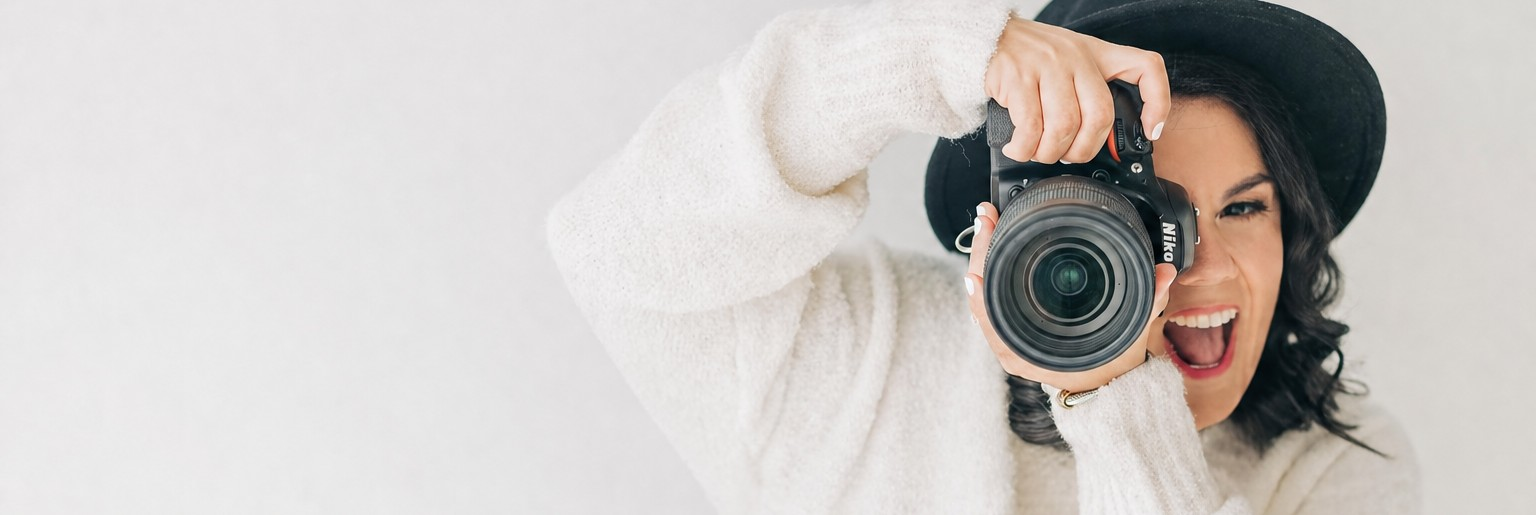
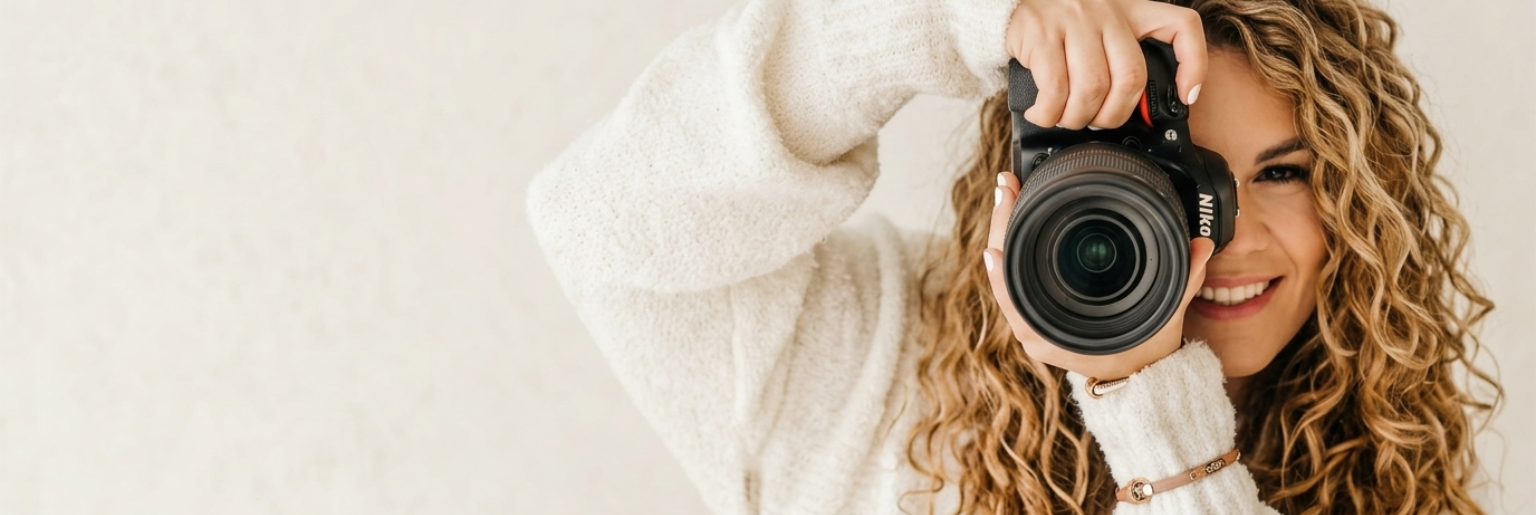
Alterações

diff --git a/campo.html b/campo.html
@@ -35,35 +35,31 @@
                 <div id="carouselExampleAutoplaying" class="carousel slide" data-bs-ride="carousel">
                     <div class="carousel-inner">
                         <div class="carousel-item active">
-                            <img src="imagens/Fotos Campo/2bd59d98c7389266a62df22ed428ca5d.jpg" class="d-block w-100"
+                            <img src="imagens/Fotos Campo/file_000000003720720e8e8a6aa6df68c9bf.png" class="d-block w-100"
                                 alt="campo 1">
                         </div>
                         <div class="carousel-item">
-                            <img src="imagens/Fotos Campo/3471efa9d6f7203ea20ab95968b14813.jpg" class="d-block w-100"
-                                alt="campo 2">
-                        </div>
-                        <div class="carousel-item">
-                            <img src="imagens/Fotos Campo/5167da14bfbef52cf6982c831f339a1c.jpg" class="d-block w-100"
+                            <img src="imagens/Fotos Campo/file_0000000064f4720eaf616bbbf5a0885f.png" class="d-block w-100"
                                 alt="campo 3">
                         </div>
                         <div class="carousel-item">
-                            <img src="imagens/Fotos Campo/c6b20793b2b92577bc85f599b5734120.jpg" class="d-block w-100"
+                            <img src="imagens/Fotos Campo/file_00000000815471f581a38d89bab91dcf.png" class="d-block w-100"
                                 alt="campo 4">
                         </div>
                         <div class="carousel-item">
-                            <img src="imagens/Fotos Campo/d4d68248edb9eeb97ff9e1f8356acce7.jpg" class="d-block w-100"
+                            <img src="imagens/Fotos Campo/file_000000009084720e92041ee5ba6d3e0d.png" class="d-block w-100"
                                 alt="campo 5">
                         </div>
                         <div class="carousel-item">
-                            <img src="imagens/Fotos Campo/de78d8607f535694f38a190bb50339a8.jpg" class="d-block w-100"
+                            <img src="imagens/Fotos Campo/file_00000000aeec720ea4adc13aaf1ccf3a.png" class="d-block w-100"
                                 alt="campo 6">
                         </div>
                         <div class="carousel-item">
-                            <img src="imagens/Fotos Campo/e269ad7b4b0672f68625052e138740c7.jpg" class="d-block w-100"
+                            <img src="imagens/Fotos Campo/file_00000000ca4071f5b4177da5c6f387ed.png" class="d-block w-100"
                                 alt="campo 7">
                         </div>
                         <div class="carousel-item">
-                            <img src="imagens/Fotos Campo/f0a6f8c5d8d6436a2abebd2537f4a1a2.jpg" class="d-block w-100"
+                            <img src="imagens/Fotos Campo/file_00000000e574720e81f77c184e11727a.png" class="d-block w-100"
                                 alt="campo 8">
                         </div>
                     </div>

diff --git a/gestante.html b/gestante.html
@@ -35,35 +35,35 @@
                 <div id="carouselExampleAutoplaying" class="carousel slide" data-bs-ride="carousel">
                     <div class="carousel-inner">
                         <div class="carousel-item active">
-                            <img src="imagens/Fotos Grávida/f7dd2e808f20acca5303b814b88de713.jpg" class="d-block w-100"
+                            <img src="imagens/Fotos Grávida/file_0000000006e8720e85ca3eb236e56c17.png" class="d-block w-100"
                                 alt="gestante 1">
                         </div>
                         <div class="carousel-item">
-                            <img src="imagens/Fotos Grávida/48fad6d0b6326b4de80e8aa12eff299b.jpg" class="d-block w-100"
+                            <img src="imagens/Fotos Grávida/file_0000000007bc71f58e0a84303fea38fd.png" class="d-block w-100"
                                 alt="gestante 2">
                         </div>
                         <div class="carousel-item">
-                            <img src="imagens/Fotos Grávida/5bf4af1169d79b5928d17a2249919cca.jpg" class="d-block w-100"
+                            <img src="imagens/Fotos Grávida/file_00000000654c71f586603e8170c378a8.png" class="d-block w-100"
                                 alt="gestante 3">
                         </div>
                         <div class="carousel-item">
-                            <img src="imagens/Fotos Grávida/b47dda0a18fd6addbdeb57f8651b2d56.jpg" class="d-block w-100"
+                            <img src="imagens/Fotos Grávida/file_000000009354720e9e92cc266bd8fe6d.png" class="d-block w-100"
                                 alt="gestante 4">
                         </div>
                         <div class="carousel-item">
-                            <img src="imagens/Fotos Grávida/b73ed9cd660fbe87f3136b11233ed6c6.jpg" class="d-block w-100"
+                            <img src="imagens/Fotos Grávida/file_00000000c9d471f58104e48af5ce6956.png" class="d-block w-100"
                                 alt="gestante 5">
                         </div>
                         <div class="carousel-item">
-                            <img src="imagens/Fotos Grávida/e618b1fa7a82ad08cafea87e690cf97b.jpg" class="d-block w-100"
+                            <img src="imagens/Fotos Grávida/file_00000000d114720e9decffab05165f5d.png" class="d-block w-100"
                                 alt="gestante 6">
                         </div>
                         <div class="carousel-item">
-                            <img src="imagens/Fotos Grávida/f0ac99760d288f44d5bd9c5c1b27f958.jpg" class="d-block w-100"
+                            <img src="imagens/Fotos Grávida/file_00000000d24c720eb06387b1d7139557.png" class="d-block w-100"
                                 alt="gestante 7">
                         </div>
                         <div class="carousel-item">
-                            <img src="imagens/Fotos Grávida/42f0eb533882f9ce3c4f87581befdce2.jpg" class="d-block w-100"
+                            <img src="imagens/Fotos Grávida/file_00000000e8b871f58a07dc3ff7db044d.png" class="d-block w-100"
                                 alt="gestante 8">
                         </div>
                     </div>

diff --git a/urbano.html b/urbano.html
@@ -41,35 +41,35 @@
                 <div id="carouselExampleAutoplaying" class="carousel slide" data-bs-ride="carousel">
                     <div class="carousel-inner">
                         <div class="carousel-item active">
-                            <img src="imagens/Fotos Urbanas/23f8e263925a3df5f728f78524a26606.jpg" class="d-block w-100"
+                            <img src="imagens/Fotos Urbanas/file_000000002c8c720ebba753c432c6bc30.png" class="d-block w-100"
                                 alt="foto urbana 1">
                         </div>
                         <div class="carousel-item">
-                            <img src="imagens/Fotos Urbanas/65bbb32c0a00d533fc6433f711327c11.jpg" class="d-block w-100"
+                            <img src="imagens/Fotos Urbanas/file_0000000046d471f596e412f81c4e4076.png" class="d-block w-100"
                                 alt="foto urbana 2">
                         </div>
                         <div class="carousel-item">
-                            <img src="imagens/Fotos Urbanas/66857df2d251d016b7bb2582d57b1d81.jpg" class="d-block w-100"
+                            <img src="imagens/Fotos Urbanas/file_000000004dfc720ea98f47f7eac0a1c0.png" class="d-block w-100"
                                 alt="foto urbana 3">
                         </div>
                         <div class="carousel-item">
-                            <img src="imagens/Fotos Urbanas/67b999c9db9543b4c0969804ae1a931d.jpg" class="d-block w-100"
+                            <img src="imagens/Fotos Urbanas/file_00000000828471f585db2421b0c07aaa.png" class="d-block w-100"
                                 alt="foto urbana 4">
                         </div>
                         <div class="carousel-item">
-                            <img src="imagens/Fotos Urbanas/75a1605f3952c087daeb21748868f895.jpg" class="d-block w-100"
+                            <img src="imagens/Fotos Urbanas/file_00000000a00471f58c81c3d087209319.png" class="d-block w-100"
                                 alt="foto urbana 5">
                         </div>
                         <div class="carousel-item">
-                            <img src="imagens/Fotos Urbanas/77bb7ca437df2962a92e4964d3e4d812.jpg" class="d-block w-100"
+                            <img src="imagens/Fotos Urbanas/file_00000000d5cc720ebcc1f65ab81e320c.png" class="d-block w-100"
                                 alt="foto urbana 6">
                         </div>
                         <div class="carousel-item">
-                            <img src="imagens/Fotos Urbanas/be88bf1f64cc4a347e32d64b97cb6634.jpg" class="d-block w-100"
+                            <img src="imagens/Fotos Urbanas/file_00000000da1c720e8e40dd46c8896e98.png" class="d-block w-100"
                                 alt="foto urbana 7">
                         </div>
                         <div class="carousel-item">
-                            <img src="imagens/Fotos Urbanas/dfb3e31c3550e5df380aef04eb7c87cd.jpg" class="d-block w-100"
+                            <img src="imagens/Fotos Urbanas/file_00000000dab8720e9eafbc984ff63193.png" class="d-block w-100"
                                 alt="foto urbana 8">
                         </div>
                     </div>

diff --git a/index.html b/index.html
@@ -45,7 +45,7 @@
                     momento enquanto eu cuido de transformá-lo em uma lembrança eterna.</p>
             </div>
             <div>
-                <img class="foto" src="imagens/sobre/sobre1.jpeg" alt="fotografia">
+                <img class="foto" src="imagens/sobre/6d9b2a4bab4f42e8be5e5e6f40fda996.jpg" alt="fotografia">
             </div>
         </section>
         <section class="portfolio" id="galeria">
@@ -54,7 +54,7 @@
             <div class="galeria">
                 <div class="capa-galeria">
                     <a href="campo.html">
-                        <img src="imagens/Fotos Campo/2bd59d98c7389266a62df22ed428ca5d.jpg" alt="CAMPO">
+                        <img src="imagens/Fotos Campo/file_00000000e574720e81f77c184e11727a.png" alt="CAMPO">
                         <div class="descricao">CAMPO</div>
                     </a>
                 </div>
@@ -66,13 +66,13 @@
                 </div>
                 <div class="capa-galeria">
                     <a href="gestante.html">
-                        <img src="imagens/Fotos Grávida/f7dd2e808f20acca5303b814b88de713.jpg" alt="GESTANTE">
+                        <img src="imagens/Fotos Grávida/file_0000000007bc71f58e0a84303fea38fd.png" alt="GESTANTE">
                         <div class="descricao">GESTANTE</div>
                     </a>
                 </div>
                 <div class="capa-galeria">
                     <a href="urbano.html">
-                        <img src="imagens/Fotos Urbanas/23f8e263925a3df5f728f78524a26606.jpg" alt="URBANO">
+                        <img src="imagens/Fotos Urbanas/file_00000000dab8720e9eafbc984ff63193.png" alt="URBANO">
                         <div class="descricao">URBANO</div>
                     </a>
                 </div>
@@ -96,7 +96,7 @@
                     <h3>R$ 350</h3>
                 </div>
                 <div class="img-pacote">
-                    <img class="foto-pacote" src="imagens/Fotos Urbanas/77bb7ca437df2962a92e4964d3e4d812.jpg"
+                    <img class="foto-pacote" src="imagens/pacotes/10afe38fc9c17e127432d3bb7860c87c.jpg"
                         alt="foto urbana">
                 </div>
             </div>
@@ -115,7 +115,7 @@
                     <h3>R$ 650</h3>
                 </div>
                 <div class="img-pacote">
-                    <img class="foto-pacote" src="imagens/Fotos Grávida/e618b1fa7a82ad08cafea87e690cf97b.jpg"
+                    <img class="foto-pacote" src="imagens/pacotes/9a33d7b85969df8fd4ec66f5f37f3573.jpg"
                         alt="foto gestnate">
                 </div>
             </div>
@@ -134,7 +134,7 @@
                     <h3>R$ 990</h3>
                 </div>
                 <div class="img-pacote">
-                    <img class="foto-pacote" src="imagens/Fotos Casamento/ceaa63a626d5514605a544e26ae58589.jpg"
+                    <img class="foto-pacote" src="imagens/pacotes/b6e12f50422d97ef90f778b415f63331.jpg"
                         alt="foto casamento">
                 </div>
             </div>